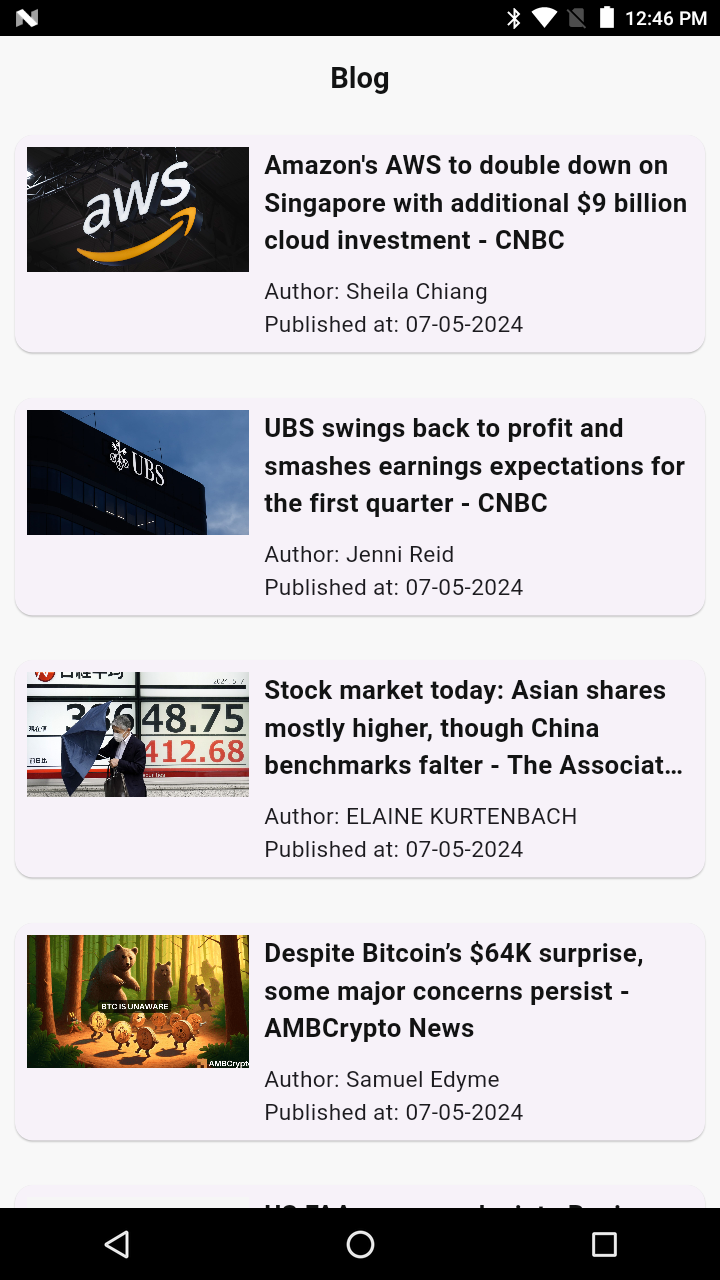
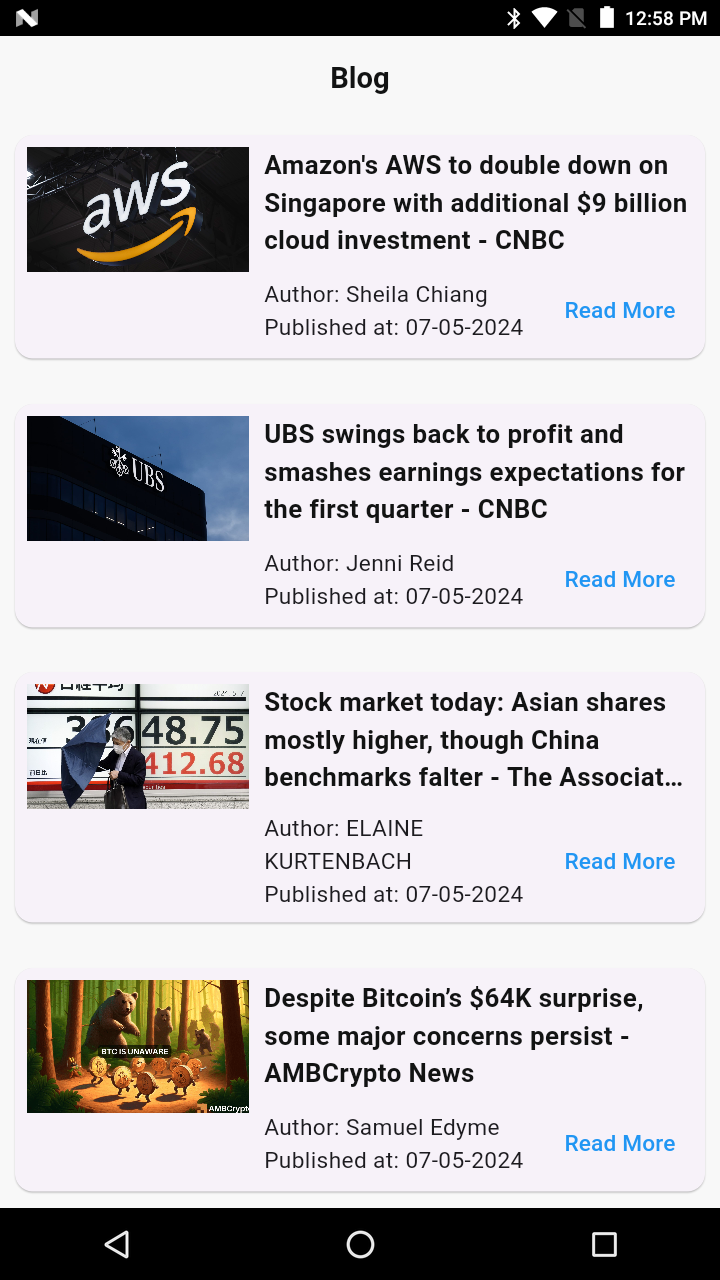
chnage photo

diff --git a/lib/widget/Card/blog_card.dart b/lib/widget/Card/blog_card.dart
@@ -26,48 +26,62 @@ class BlogCard extends StatelessWidget {
   Widget build(BuildContext context) {
     return Card(
       margin: EdgeInsets.all(10.0),
-      child: InkWell(
-        onTap: () {
-          onTap();
-        },
-        child: Padding(
-          padding: const EdgeInsets.all(8.0),
-          child: Row(
-            crossAxisAlignment: CrossAxisAlignment.start,
-            children: <Widget>[
-              Expanded(
-                flex: 1,
-                child:
-                Asset_imge_show().fadeInImage_network(image_path: imageUrl,boxFit: BoxFit.cover)
-              ),
-              Expanded(
-                flex: 2,
-                child: Padding(
-                  padding: const EdgeInsets.only(left: 10),
-                  child: Column(
-                    crossAxisAlignment: CrossAxisAlignment.start,
-                    children: <Widget>[
-                      Text(
-                        title,
-                        maxLines: 3,
-                        overflow: TextOverflow.ellipsis,
-                        style: App_style().text_16_black_bold
-                      ),
-                      const SizedBox(height: 10.0),
-                      Text(
-                        'Author: $author',
-                        style: App_style().text_14
-                      ),
-                      Text(
-                        'Published at: ${Date_And_Time().getDateFormate(publishedAt)}',
-                        style:App_style().text_14
-                      ),
-                    ],
-                  ),
+      child: Padding(
+        padding: const EdgeInsets.all(8.0),
+        child: Row(
+          crossAxisAlignment: CrossAxisAlignment.start,
+          children: <Widget>[
+            Expanded(
+              flex: 1,
+              child:
+              Asset_imge_show().fadeInImage_network(image_path: imageUrl,boxFit: BoxFit.cover)
+            ),
+            Expanded(
+              flex: 2,
+              child: Padding(
+                padding: const EdgeInsets.only(left: 10),
+                child: Column(
+                  crossAxisAlignment: CrossAxisAlignment.start,
+                  children: <Widget>[
+                    Text(
+                      title,
+                      maxLines: 3,
+                      overflow: TextOverflow.ellipsis,
+                      style: App_style().text_16_black_bold
+                    ),
+                    const SizedBox(height: 10.0),
+                    Row(
+                      children: [
+                        Expanded(child:
+                        Column(
+                          crossAxisAlignment: CrossAxisAlignment.start,
+                          children: [
+                            Text(
+                                'Author: $author',
+                                style: App_style().text_14
+                            ),
+                            Text(
+                                'Published at: ${Date_And_Time().getDateFormate(publishedAt)}',
+                                style:App_style().text_14
+                            ),
+                          ],
+                        )),
+                        TextButton(
+                          onPressed: () {
+                            onTap();
+                          },
+                          child: Text(
+                            'Read More',
+                            style: TextStyle(color: Colors.blue),
+                          ),
+                        ),
+                      ],
+                    )
+                  ],
                 ),
               ),
-            ],
-          ),
+            ),
+          ],
         ),
       ),
     );
